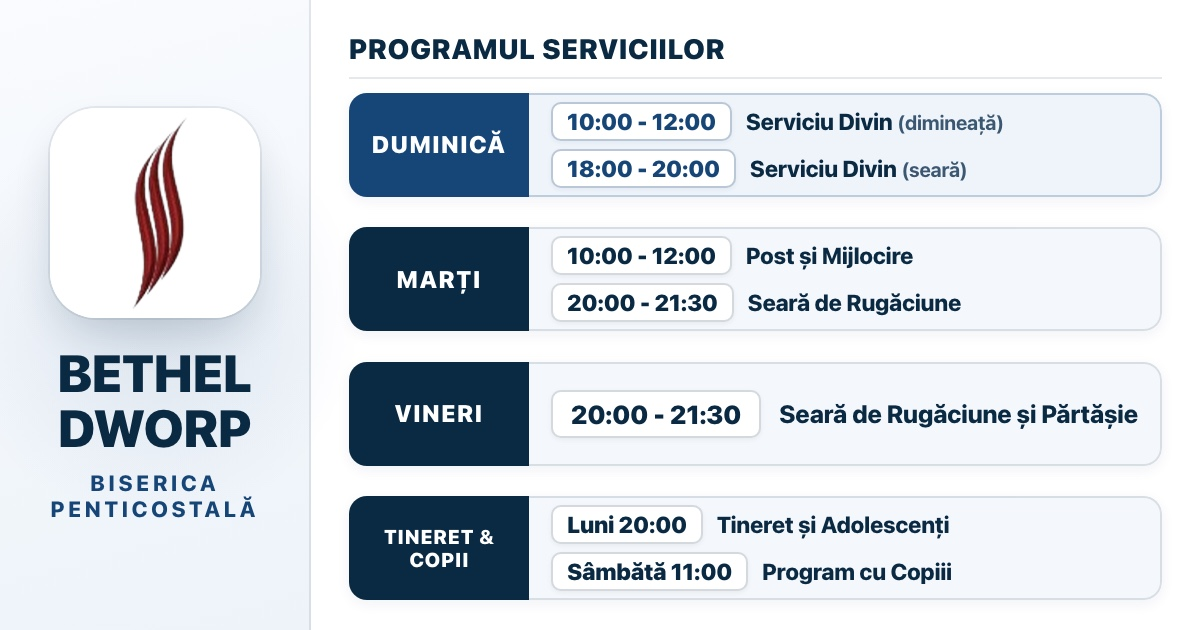
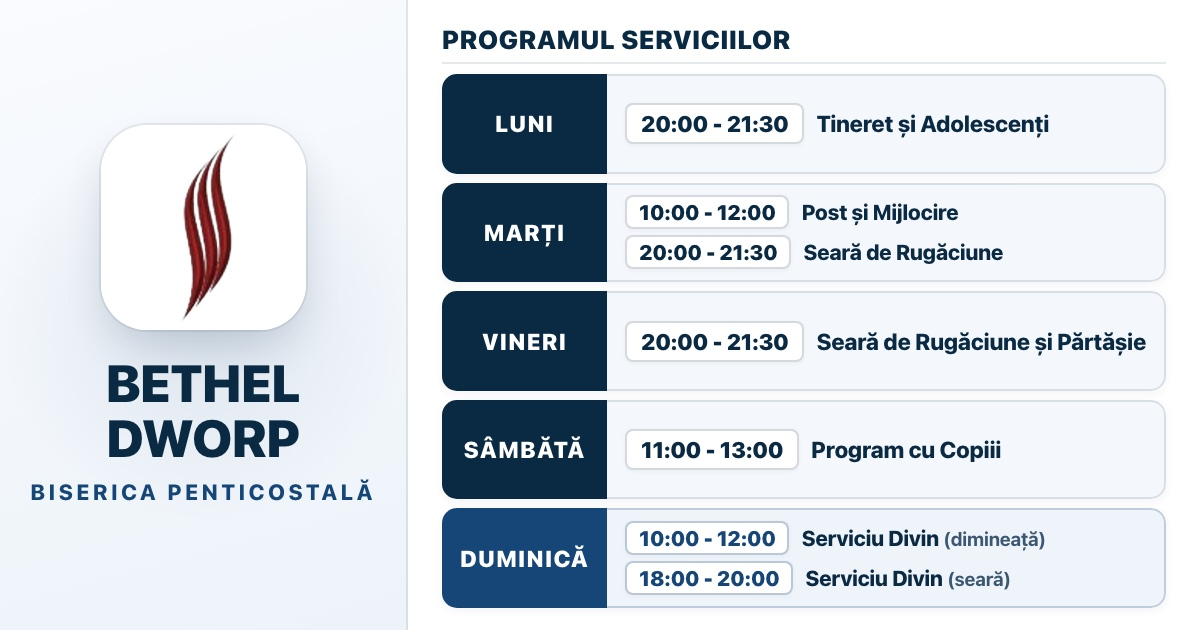
feat(og): order schedule from monday to sunday with separate youth and children rows

diff --git a/public/og-template.html b/public/og-template.html
@@ -25,9 +25,9 @@
             height: 630px;
         }
 
-        /* --- COLOANA STÂNGA : IDENTITATE ȘI LOGO MARE (460px) --- */
+        /* --- COLOANA STÂNGA : IDENTITATE ȘI LOGO MARE (450px) --- */
         .brand-col {
-            width: 460px;
+            width: 450px;
             height: 630px;
             background: linear-gradient(165deg, #f9fbfe 0%, #edf3f9 100%);
             border-right: 2px solid rgba(10, 42, 67, 0.10);
@@ -36,7 +36,7 @@
             justify-content: center;
             align-items: center;
             text-align: center;
-            padding: 40px 32px;
+            padding: 40px 30px;
             position: relative;
         }
 
@@ -50,15 +50,15 @@
         }
 
         .logo-wrap {
-            width: 210px;
-            height: 210px;
+            width: 205px;
+            height: 205px;
             display: flex;
             align-items: center;
             justify-content: center;
             background: #ffffff;
             border-radius: 46px;
             box-shadow: 0 20px 45px -10px rgba(10, 42, 67, 0.20), 0 0 0 2px rgba(10, 42, 67, 0.08);
-            margin-bottom: 28px;
+            margin-bottom: 26px;
             padding: 10px;
             position: relative;
             z-index: 1;
@@ -95,11 +95,11 @@
             z-index: 1;
         }
 
-        /* --- COLOANA DREAPTA : PROGRAMUL MARE ȘI LISIBIL (740px) --- */
+        /* --- COLOANA DREAPTA : PROGRAMUL MARE DE LUNI PÂNĂ DUMINICĂ (750px) --- */
         .sched-col {
             flex: 1;
             height: 630px;
-            padding: 32px 38px 30px;
+            padding: 24px 34px 22px;
             display: flex;
             flex-direction: column;
             justify-content: space-between;
@@ -109,13 +109,13 @@
         .sched-header {
             display: flex;
             align-items: center;
-            padding-bottom: 12px;
+            padding-bottom: 8px;
             border-bottom: 2px solid rgba(10, 42, 67, 0.10);
-            margin-bottom: 14px;
+            margin-bottom: 10px;
         }
 
         .sched-header-title {
-            font-size: 28px;
+            font-size: 26px;
             font-weight: 900;
             letter-spacing: 0.02em;
             color: #0a2a43;
@@ -125,7 +125,7 @@
         .sched-list {
             display: flex;
             flex-direction: column;
-            gap: 12px;
+            gap: 9px;
             flex: 1;
             justify-content: space-between;
         }
@@ -135,34 +135,28 @@
             display: flex;
             flex-direction: row;
             align-items: stretch;
-            height: 104px;
-            border-radius: 18px;
+            flex: 1;
+            min-height: 0;
+            border-radius: 15px;
             overflow: hidden;
-            box-shadow: 0 4px 14px rgba(10, 42, 67, 0.06);
+            box-shadow: 0 3px 10px rgba(10, 42, 67, 0.05);
         }
 
         /* Tag Zi (stânga rândului) */
         .sched-day-tag {
-            width: 180px;
+            width: 165px;
             background: #0a2a43;
             color: #ffffff;
             display: flex;
-            flex-direction: column;
             align-items: center;
             justify-content: center;
-            font-size: 24px;
+            font-size: 23px;
             font-weight: 900;
             letter-spacing: 0.06em;
             text-transform: uppercase;
-            padding: 6px 12px;
+            padding: 4px 10px;
             text-align: center;
             flex-shrink: 0;
-            line-height: 1.15;
-        }
-
-        .sched-day-tag--compact {
-            font-size: 20px;
-            letter-spacing: 0.04em;
         }
 
         /* Duminica evidențiată */
@@ -176,12 +170,12 @@
             background: #f4f7fb;
             border: 2px solid rgba(10, 42, 67, 0.12);
             border-left: none;
-            border-radius: 0 18px 18px 0;
-            padding: 10px 22px;
+            border-radius: 0 15px 15px 0;
+            padding: 6px 18px;
             display: flex;
             flex-direction: column;
             justify-content: center;
-            gap: 8px;
+            gap: 6px;
         }
 
         .sched-row--sunday .sched-body {
@@ -192,20 +186,20 @@
         .sched-item {
             display: flex;
             align-items: center;
-            gap: 14px;
+            gap: 12px;
         }
 
         .sched-time-badge {
             background: #ffffff;
             color: #0a2a43;
             border: 2px solid rgba(10, 42, 67, 0.18);
-            border-radius: 10px;
-            padding: 4px 14px;
-            font-size: 23px;
+            border-radius: 8px;
+            padding: 3px 12px;
+            font-size: 21px;
             font-weight: 900;
             letter-spacing: -0.01em;
             white-space: nowrap;
-            box-shadow: 0 2px 5px rgba(10, 42, 67, 0.05);
+            box-shadow: 0 1.5px 4px rgba(10, 42, 67, 0.04);
         }
 
         .sched-row--sunday .sched-time-badge {
@@ -214,7 +208,7 @@
         }
 
         .sched-text {
-            font-size: 23px;
+            font-size: 21.5px;
             font-weight: 800;
             color: #0a2a43;
             letter-spacing: -0.01em;
@@ -224,21 +218,17 @@
         .sched-text-desc {
             font-weight: 700;
             color: #3b5771;
-            font-size: 20px;
+            font-size: 19px;
         }
 
-        /* Pentru rândul cu 1 singur serviciu mare (Vineri) */
-        .sched-item--single {
-            gap: 18px;
+        /* Pentru rândurile cu 1 singur serviciu */
+        .sched-row--single .sched-time-badge {
+            padding: 5px 14px;
+            font-size: 22.5px;
         }
 
-        .sched-item--single .sched-time-badge {
-            padding: 7px 18px;
-            font-size: 26px;
-        }
-
-        .sched-item--single .sched-text {
-            font-size: 25px;
+        .sched-row--single .sched-text {
+            font-size: 23px;
         }
     </style>
 </head>
@@ -252,26 +242,22 @@
         <div class="brand-sub">BISERICA PENTICOSTALĂ</div>
     </aside>
 
-    <!-- DROITE : PROGRAMUL DETALIAT ȘI MARE -->
+    <!-- DROITE : PROGRAMUL DE LUNI PÂNĂ DUMINICĂ -->
     <main class="sched-col">
         <div class="sched-header">
             <div class="sched-header-title">PROGRAMUL SERVICIILOR</div>
         </div>
 
         <div class="sched-list">
-            <!-- 1. DUMINICĂ -->
-            <div class="sched-row sched-row--sunday">
+            <!-- 1. LUNI -->
+            <div class="sched-row sched-row--single">
                 <div class="sched-day-tag">
-                    DUMINICĂ
+                    LUNI
                 </div>
                 <div class="sched-body">
                     <div class="sched-item">
-                        <span class="sched-time-badge">10:00 - 12:00</span>
-                        <span class="sched-text">Serviciu Divin <span class="sched-text-desc">(dimineață)</span></span>
-                    </div>
-                    <div class="sched-item">
-                        <span class="sched-time-badge">18:00 - 20:00</span>
-                        <span class="sched-text">Serviciu Divin <span class="sched-text-desc">(seară)</span></span>
+                        <span class="sched-time-badge">20:00 - 21:30</span>
+                        <span class="sched-text">Tineret și Adolescenți</span>
                     </div>
                 </div>
             </div>
@@ -294,31 +280,44 @@
             </div>
 
             <!-- 3. VINERI -->
-            <div class="sched-row">
+            <div class="sched-row sched-row--single">
                 <div class="sched-day-tag">
                     VINERI
                 </div>
                 <div class="sched-body">
-                    <div class="sched-item sched-item--single">
+                    <div class="sched-item">
                         <span class="sched-time-badge">20:00 - 21:30</span>
                         <span class="sched-text">Seară de Rugăciune și Părtășie</span>
                     </div>
                 </div>
             </div>
 
-            <!-- 4. LUNI & SÂMBĂTĂ (Tineret & Copii) -->
-            <div class="sched-row">
-                <div class="sched-day-tag sched-day-tag--compact">
-                    TINERET &amp; COPII
+            <!-- 4. SÂMBĂTĂ -->
+            <div class="sched-row sched-row--single">
+                <div class="sched-day-tag">
+                    SÂMBĂTĂ
                 </div>
                 <div class="sched-body">
                     <div class="sched-item">
-                        <span class="sched-time-badge">Luni 20:00</span>
-                        <span class="sched-text">Tineret și Adolescenți</span>
+                        <span class="sched-time-badge">11:00 - 13:00</span>
+                        <span class="sched-text">Program cu Copiii</span>
+                    </div>
+                </div>
+            </div>
+
+            <!-- 5. DUMINICĂ -->
+            <div class="sched-row sched-row--sunday">
+                <div class="sched-day-tag">
+                    DUMINICĂ
+                </div>
+                <div class="sched-body">
+                    <div class="sched-item">
+                        <span class="sched-time-badge">10:00 - 12:00</span>
+                        <span class="sched-text">Serviciu Divin <span class="sched-text-desc">(dimineață)</span></span>
                     </div>
                     <div class="sched-item">
-                        <span class="sched-time-badge">Sâmbătă 11:00</span>
-                        <span class="sched-text">Program cu Copiii</span>
+                        <span class="sched-time-badge">18:00 - 20:00</span>
+                        <span class="sched-text">Serviciu Divin <span class="sched-text-desc">(seară)</span></span>
                     </div>
                 </div>
             </div>

diff --git a/app/[lang]/romanian-pentecostal-churches-map/layout.jsx b/app/[lang]/romanian-pentecostal-churches-map/layout.jsx
@@ -38,13 +38,13 @@ export async function generateMetadata({ params }) {
             description: DESCRIPTIONS.ro,
             url: `${SITE_URL}/${l}${PATH}`,
             locale: "ro_RO",
-            images: [{ url: "/images/og-v5.jpg", width: 1200, height: 630, alt: `${TITLES.ro} | Bethel Dworp` }],
+            images: [{ url: "/images/og-v6.jpg", width: 1200, height: 630, alt: `${TITLES.ro} | Bethel Dworp` }],
         },
         twitter: {
             card: "summary_large_image",
             title: `${TITLES.ro} | Bethel Dworp`,
             description: DESCRIPTIONS.ro,
-            images: ["/images/og-v5.jpg"],
+            images: ["/images/og-v6.jpg"],
         },
     };
 }

diff --git a/app/[lang]/layout.jsx b/app/[lang]/layout.jsx
@@ -64,13 +64,13 @@ export async function generateMetadata({ params }) {
             description: DESCRIPTIONS.ro,
             url: `${SITE_URL}/${l}`,
             locale: "ro_RO",
-            images: [{ url: "/images/og-v5.jpg", width: 1200, height: 630, alt: TITLES.ro }],
+            images: [{ url: "/images/og-v6.jpg", width: 1200, height: 630, alt: TITLES.ro }],
         },
         twitter: {
             card: "summary_large_image",
             title: TITLES.ro,
             description: DESCRIPTIONS.ro,
-            images: ["/images/og-v5.jpg"],
+            images: ["/images/og-v6.jpg"],
         },
     };
 }
